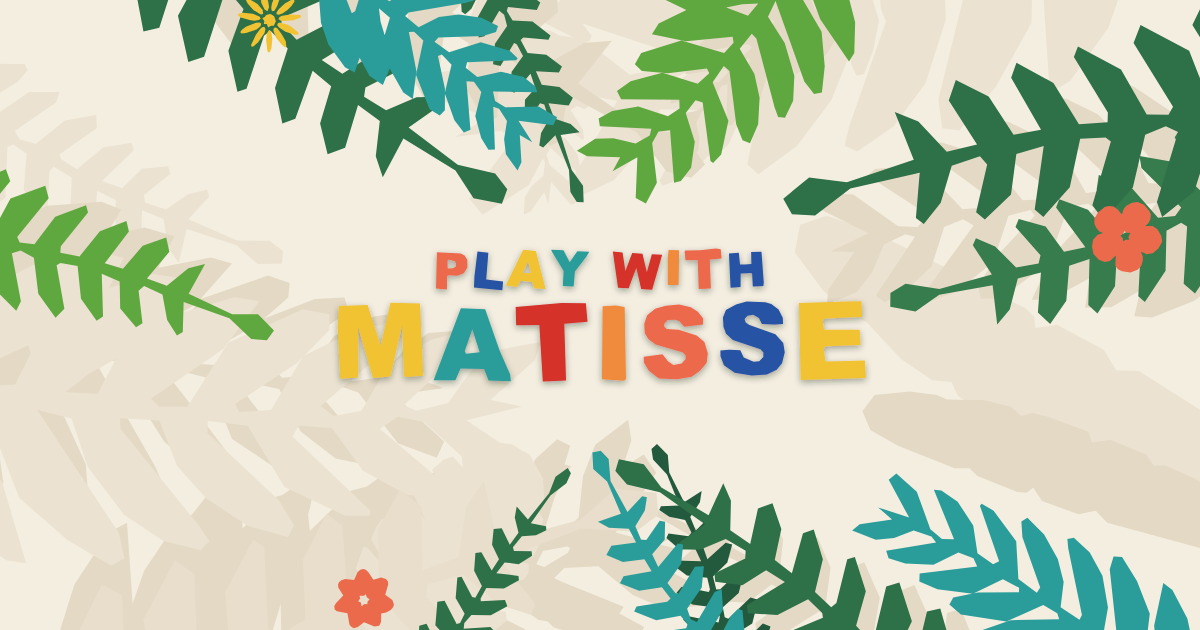
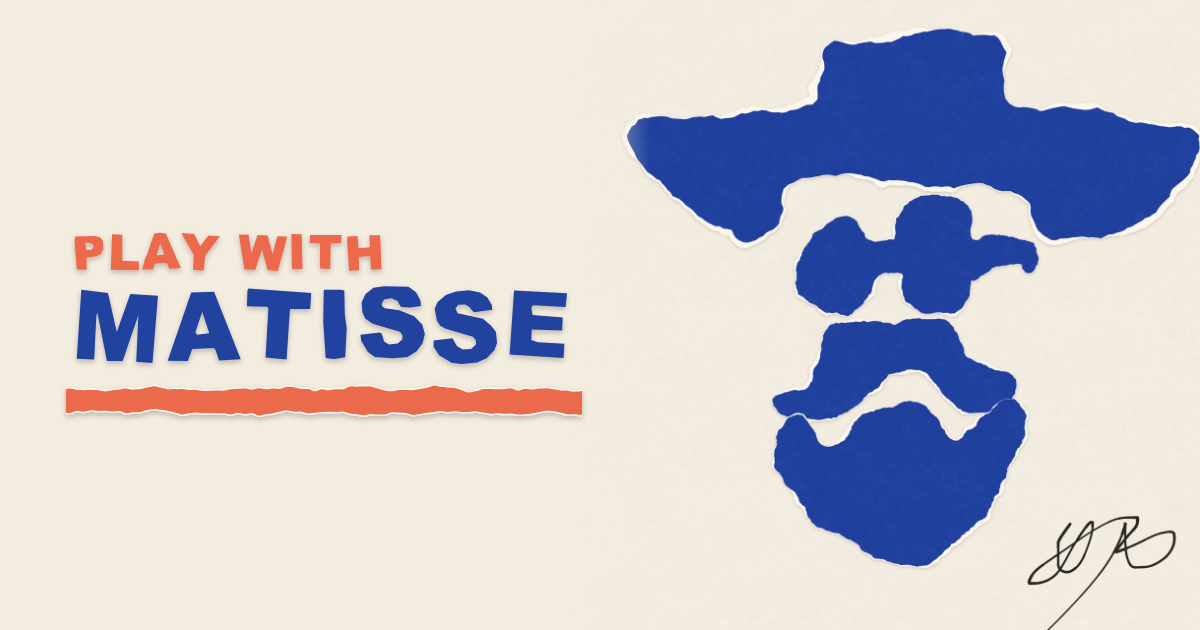
Play with Matisse: new OG image built from a real piece
A portrait made with the site (assets/og-artwork.jpg) fills the right side; the
card takes its paper colour from the artwork so they read as one sheet, and the
cut-paper title sits on the left in coral and the artwork's own blue over a torn
coral strip. The earlier forest version is kept as scripts/og-forest.html.
og:image hash re-stamped.

diff --git a/play-with-matisse/scripts/og.html b/play-with-matisse/scripts/og.html
@@ -1,21 +1,115 @@
 <!doctype html>
-<!-- OG image source: the intro forest and cut-paper title at 1200 × 630, no button, with the OG overrides from
-     src/og-layout.js on top of the intro layout. Rendered by scripts/render-og.sh. -->
+<!-- OG image source (1200 × 630): a real piece made with the site (assets/og-artwork.jpg) bleeds off the right
+     edge, its paper continuing across the whole card; the cut-paper title sits on the open paper at the left in the
+     artwork's own blue, with one torn strip of coral under it. Rendered by scripts/render-og.sh.
+     The earlier forest version is scripts/og-forest.html. -->
 <html lang="en">
 <head>
 <meta charset="utf-8">
-<style>html, body { margin: 0; width: 1200px; height: 630px; overflow: hidden; background: #F4EEE1; } svg { display: block; width: 1200px; height: 630px; }</style>
+<style>html, body { margin: 0; width: 1200px; height: 630px; overflow: hidden; background: #F1ECE2; } svg { display: block; width: 1200px; height: 630px; }</style>
 </head>
 <body>
-<svg id="forest" aria-hidden="true"></svg>
-<div id="play" hidden></div>
+<svg id="og" viewBox="0 0 1200 630" aria-hidden="true"></svg>
 <script type="module">
   import { initStore } from "../src/store.js";
-  import { buildForest, mergeLayout } from "../src/intro.js";
-  import introLayout from "../src/intro-layout.js";
-  import ogLayout from "../src/og-layout.js";
+  import { glyphShape } from "../src/shapes.js";
+  import { ringsToD } from "../src/intro.js";
+  import { rng, noise2 } from "../src/util.js";
+
   initStore();
-  buildForest(document.getElementById("forest"), 1200, 630, document.getElementById("play"), mergeLayout(introLayout, ogLayout));
+  const NS = "http://www.w3.org/2000/svg",
+    svg = document.getElementById("og"),
+    SRC = "../assets/og-artwork.jpg";
+  const el = (tag, attrs = {}, parent = svg) => {
+    const n = document.createElementNS(NS, tag);
+    for (const [k, v] of Object.entries(attrs)) n.setAttribute(k, v);
+    parent.append(n);
+    return n;
+  };
+
+  const img = await new Promise((res) => {
+    const i = new Image();
+    i.onload = () => res(i);
+    i.src = SRC;
+  });
+  // Take the paper colour and the cut-paper blue straight from the artwork, so the card and the picture are one sheet.
+  const probe = document.createElement("canvas");
+  probe.width = img.naturalWidth;
+  probe.height = img.naturalHeight;
+  const pc = probe.getContext("2d", { willReadFrequently: true });
+  pc.drawImage(img, 0, 0);
+  const avg = (x, y, w, h) => {
+    const d = pc.getImageData(x, y, w, h).data;
+    let r = 0, g = 0, b = 0;
+    for (let i = 0; i < d.length; i += 4) (r += d[i]), (g += d[i + 1]), (b += d[i + 2]);
+    const n = d.length / 4;
+    return `rgb(${Math.round(r / n)},${Math.round(g / n)},${Math.round(b / n)})`;
+  };
+  const W = img.naturalWidth,
+    paper = avg(10, 520, 60, 200),
+    blue = avg(Math.round(W * 0.47), Math.round(W * 0.2), 40, 40);
+  document.body.style.background = paper;
+
+  el("defs").innerHTML = `
+    <linearGradient id="fadeL" x1="0" x2="1"><stop offset="0" stop-color="#fff" stop-opacity="0"/><stop offset=".14" stop-color="#fff"/></linearGradient>
+    <mask id="artMask"><rect x="560" y="0" width="640" height="630" fill="url(#fadeL)"/></mask>
+    <filter id="lift" x="-20%" y="-20%" width="140%" height="160%"><feDropShadow dx="0" dy="2.5" stdDeviation="2.6" flood-color="#2A2014" flood-opacity=".28"/></filter>`;
+  el("rect", { width: 1200, height: 630, fill: paper });
+
+  // The artwork, full height on the right; its left edge fades into the same paper.
+  el("image", { href: SRC, x: 570, y: 0, width: 630, height: 630, mask: "url(#artMask)" });
+
+  // Cut-paper title in the artwork's blue: a small "PLAY WITH" over a big "MATISSE".
+  const R = rng(5150),
+    track = 4,
+    lines = ["PLAY WITH", "MATISSE"].map((t, li) => [...t].map((ch, i) => (ch === " " ? { space: true, adv: 34 } : { ch, ...glyphShape(ch, 300 + li * 40 + i) }))),
+    width = (line) => line.reduce((w, g) => w + g.adv + track, -track);
+  const left = 72,
+    titleW = 500,
+    sB = titleW / width(lines[1]),
+    sA = sB * 0.5,
+    capA = 72 * sA,
+    capB = 72 * sB,
+    gap = capB * 0.3,
+    top = 315 - (capA + gap + capB) / 2 - 18;
+
+  // One torn coral strip under the title, cut with the same rough edge the site's "rip" uses.
+  const n = noise2(77),
+    sy = top + capA + gap + capB + 30,
+    sx0 = left - 6,
+    sx1 = left + titleW + 10,
+    edge = (y0, o) => {
+      const pts = [];
+      for (let x = sx0; x <= sx1; x += 3) pts.push([x, y0 + n(x / 26, o) * 3.2 + n(x / 7, o + 9) * 1.3]);
+      return pts;
+    };
+  const topEdge = edge(sy, 0),
+    botEdge = edge(sy + 24, 40).reverse(),
+    strip = topEdge.concat(botEdge);
+  const rim = strip.map(([x, y], i) => [x + (i < topEdge.length ? 0 : 0), y + (i < topEdge.length ? -1.6 : 1.6)]);
+  const P = (pts) => "M" + pts.map((p) => p[0].toFixed(1) + " " + p[1].toFixed(1)).join("L") + "Z";
+  el("path", { d: P(rim), fill: "#FBF7EE", filter: "url(#lift)" });
+  el("path", { d: P(strip), fill: "#EC6A4C" });
+
+  const title = el("g", { filter: "url(#lift)" });
+  [
+    [lines[0], sA, top + capA],
+    [lines[1], sB, top + capA + gap + capB],
+  ].forEach(([line, s, baseline], li) => {
+    let x = left;
+    for (const g of line) {
+      if (!g.space) {
+        const k = s * (0.95 + R() * 0.1),
+          lx = x + (g.adv * s) / 2,
+          ly = baseline - 36 * s + (R() - 0.5) * 6 * s,
+          rot = (R() - 0.5) * 9;
+        const p = el("g", { transform: `translate(${lx.toFixed(1)} ${ly.toFixed(1)}) rotate(${rot.toFixed(1)}) scale(${k.toFixed(4)})` }, title);
+        el("path", { d: ringsToD(g.rings), transform: `translate(${(-g.adv / 2).toFixed(1)} 36)`, fill: li === 0 ? "#EC6A4C" : blue }, p);
+      }
+      x += (g.adv + track) * s;
+    }
+  });
+
   document.title = "ready";
 </script>
 </body>

diff --git a/play-with-matisse/index.html b/play-with-matisse/index.html
@@ -12,7 +12,7 @@
 <meta property="og:description" content="選一張色紙、畫幾筆、剪或撕，把紙片拼成一張自己的作品。">
 <meta property="og:url" content="https://yuuyuutube.github.io/tools/play-with-matisse/">
 <meta property="og:site_name" content="Play with Matisse">
-<meta property="og:image" content="https://yuuyuutube.github.io/tools/play-with-matisse/og.png?v=8e299e4ddc">
+<meta property="og:image" content="https://yuuyuutube.github.io/tools/play-with-matisse/og.png?v=fcfad5cdcc">
 <meta property="og:image:width" content="1200">
 <meta property="og:image:height" content="630">
 <meta property="og:image:type" content="image/png">
@@ -20,38 +20,38 @@
 <meta name="twitter:card" content="summary_large_image">
 <meta name="twitter:title" content="Play with Matisse">
 <meta name="twitter:description" content="選一張色紙、畫幾筆、剪或撕，把紙片拼成一張自己的作品。">
-<meta name="twitter:image" content="https://yuuyuutube.github.io/tools/play-with-matisse/og.png?v=8e299e4ddc">
+<meta name="twitter:image" content="https://yuuyuutube.github.io/tools/play-with-matisse/og.png?v=fcfad5cdcc">
 <!-- stamp -->
 <!-- stamp: generated by scripts/stamp.mjs, do not edit by hand -->
-<link rel="icon" type="image/svg+xml" href="assets/icon.svg?v=3c46bf101c">
+<link rel="icon" type="image/svg+xml" href="assets/icon.svg?v=a55ab3abc2">
 <link rel="icon" type="image/png" sizes="32x32" href="assets/icon-32.png?v=219a6f1327">
 <link rel="apple-touch-icon" sizes="180x180" href="assets/apple-touch-icon.png?v=6d447ec91f">
 <link rel="stylesheet" href="src/style.css?v=8a56ca45e2">
 <script type="importmap">{
  "imports": {
-  "./src/about.js": "./src/about.js?v=c609833889",
-  "./src/data.js": "./src/data.js?v=6d01f39278",
+  "./src/about.js": "./src/about.js?v=39a72c1ca6",
+  "./src/data.js": "./src/data.js?v=195fa09820",
   "./src/desk.js": "./src/desk.js?v=b88b22517c",
   "./src/drawpad.js": "./src/drawpad.js?v=06e8faecce",
-  "./src/editor.js": "./src/editor.js?v=28c76fc847",
-  "./src/export.js": "./src/export.js?v=56e3428159",
-  "./src/finish.js": "./src/finish.js?v=97fdf6aded",
-  "./src/geom.js": "./src/geom.js?v=1ffe7ccc7a",
+  "./src/editor.js": "./src/editor.js?v=14cf5fe97d",
+  "./src/export.js": "./src/export.js?v=72b5262c7f",
+  "./src/finish.js": "./src/finish.js?v=f47d57d435",
+  "./src/geom.js": "./src/geom.js?v=f218dc26e5",
   "./src/icons.js": "./src/icons.js?v=b9a6334541",
-  "./src/intro-layout.js": "./src/intro-layout.js?v=125f01eac6",
-  "./src/intro-pieces.js": "./src/intro-pieces.js?v=0412d3ece1",
-  "./src/intro.js": "./src/intro.js?v=9909d16c97",
+  "./src/intro-layout.js": "./src/intro-layout.js?v=f968c0f4d1",
+  "./src/intro-pieces.js": "./src/intro-pieces.js?v=eb557da949",
+  "./src/intro.js": "./src/intro.js?v=36cf940808",
   "./src/main.js": "./src/main.js?v=b246148968",
-  "./src/og-layout.js": "./src/og-layout.js?v=b7898c127d",
-  "./src/paper.js": "./src/paper.js?v=1b4e3dbcff",
+  "./src/og-layout.js": "./src/og-layout.js?v=f4cbaf104f",
+  "./src/paper.js": "./src/paper.js?v=b269331090",
   "./src/photo.js": "./src/photo.js?v=d47219c70b",
-  "./src/shapes.js": "./src/shapes.js?v=968210e013",
-  "./src/sign.js": "./src/sign.js?v=8d36225420",
-  "./src/sizes.js": "./src/sizes.js?v=05fd8ca7b6",
-  "./src/store.js": "./src/store.js?v=0483ea60b8",
+  "./src/shapes.js": "./src/shapes.js?v=083b83436e",
+  "./src/sign.js": "./src/sign.js?v=e499fc517a",
+  "./src/sizes.js": "./src/sizes.js?v=81046d3094",
+  "./src/store.js": "./src/store.js?v=4e41ab3149",
   "./src/tour.js": "./src/tour.js?v=090d66670e",
   "./src/ui.js": "./src/ui.js?v=bb1d450198",
-  "./src/util.js": "./src/util.js?v=36d73d7d1d"
+  "./src/util.js": "./src/util.js?v=fbbd70d7fa"
  }
 }</script>
 <script type="module" src="src/main.js?v=b246148968"></script>

diff --git a/play-with-matisse/scripts/og-forest.html b/play-with-matisse/scripts/og-forest.html
@@ -1,0 +1,22 @@
+<!doctype html>
+<!-- Previous OG image (kept for the OG editor): the intro forest and cut-paper title at 1200 × 630, no button, with the OG overrides from
+     src/og-layout.js on top of the intro layout. Rendered by scripts/render-og.sh. -->
+<html lang="en">
+<head>
+<meta charset="utf-8">
+<style>html, body { margin: 0; width: 1200px; height: 630px; overflow: hidden; background: #F4EEE1; } svg { display: block; width: 1200px; height: 630px; }</style>
+</head>
+<body>
+<svg id="forest" aria-hidden="true"></svg>
+<div id="play" hidden></div>
+<script type="module">
+  import { initStore } from "../src/store.js";
+  import { buildForest, mergeLayout } from "../src/intro.js";
+  import introLayout from "../src/intro-layout.js";
+  import ogLayout from "../src/og-layout.js";
+  initStore();
+  buildForest(document.getElementById("forest"), 1200, 630, document.getElementById("play"), mergeLayout(introLayout, ogLayout));
+  document.title = "ready";
+</script>
+</body>
+</html>
